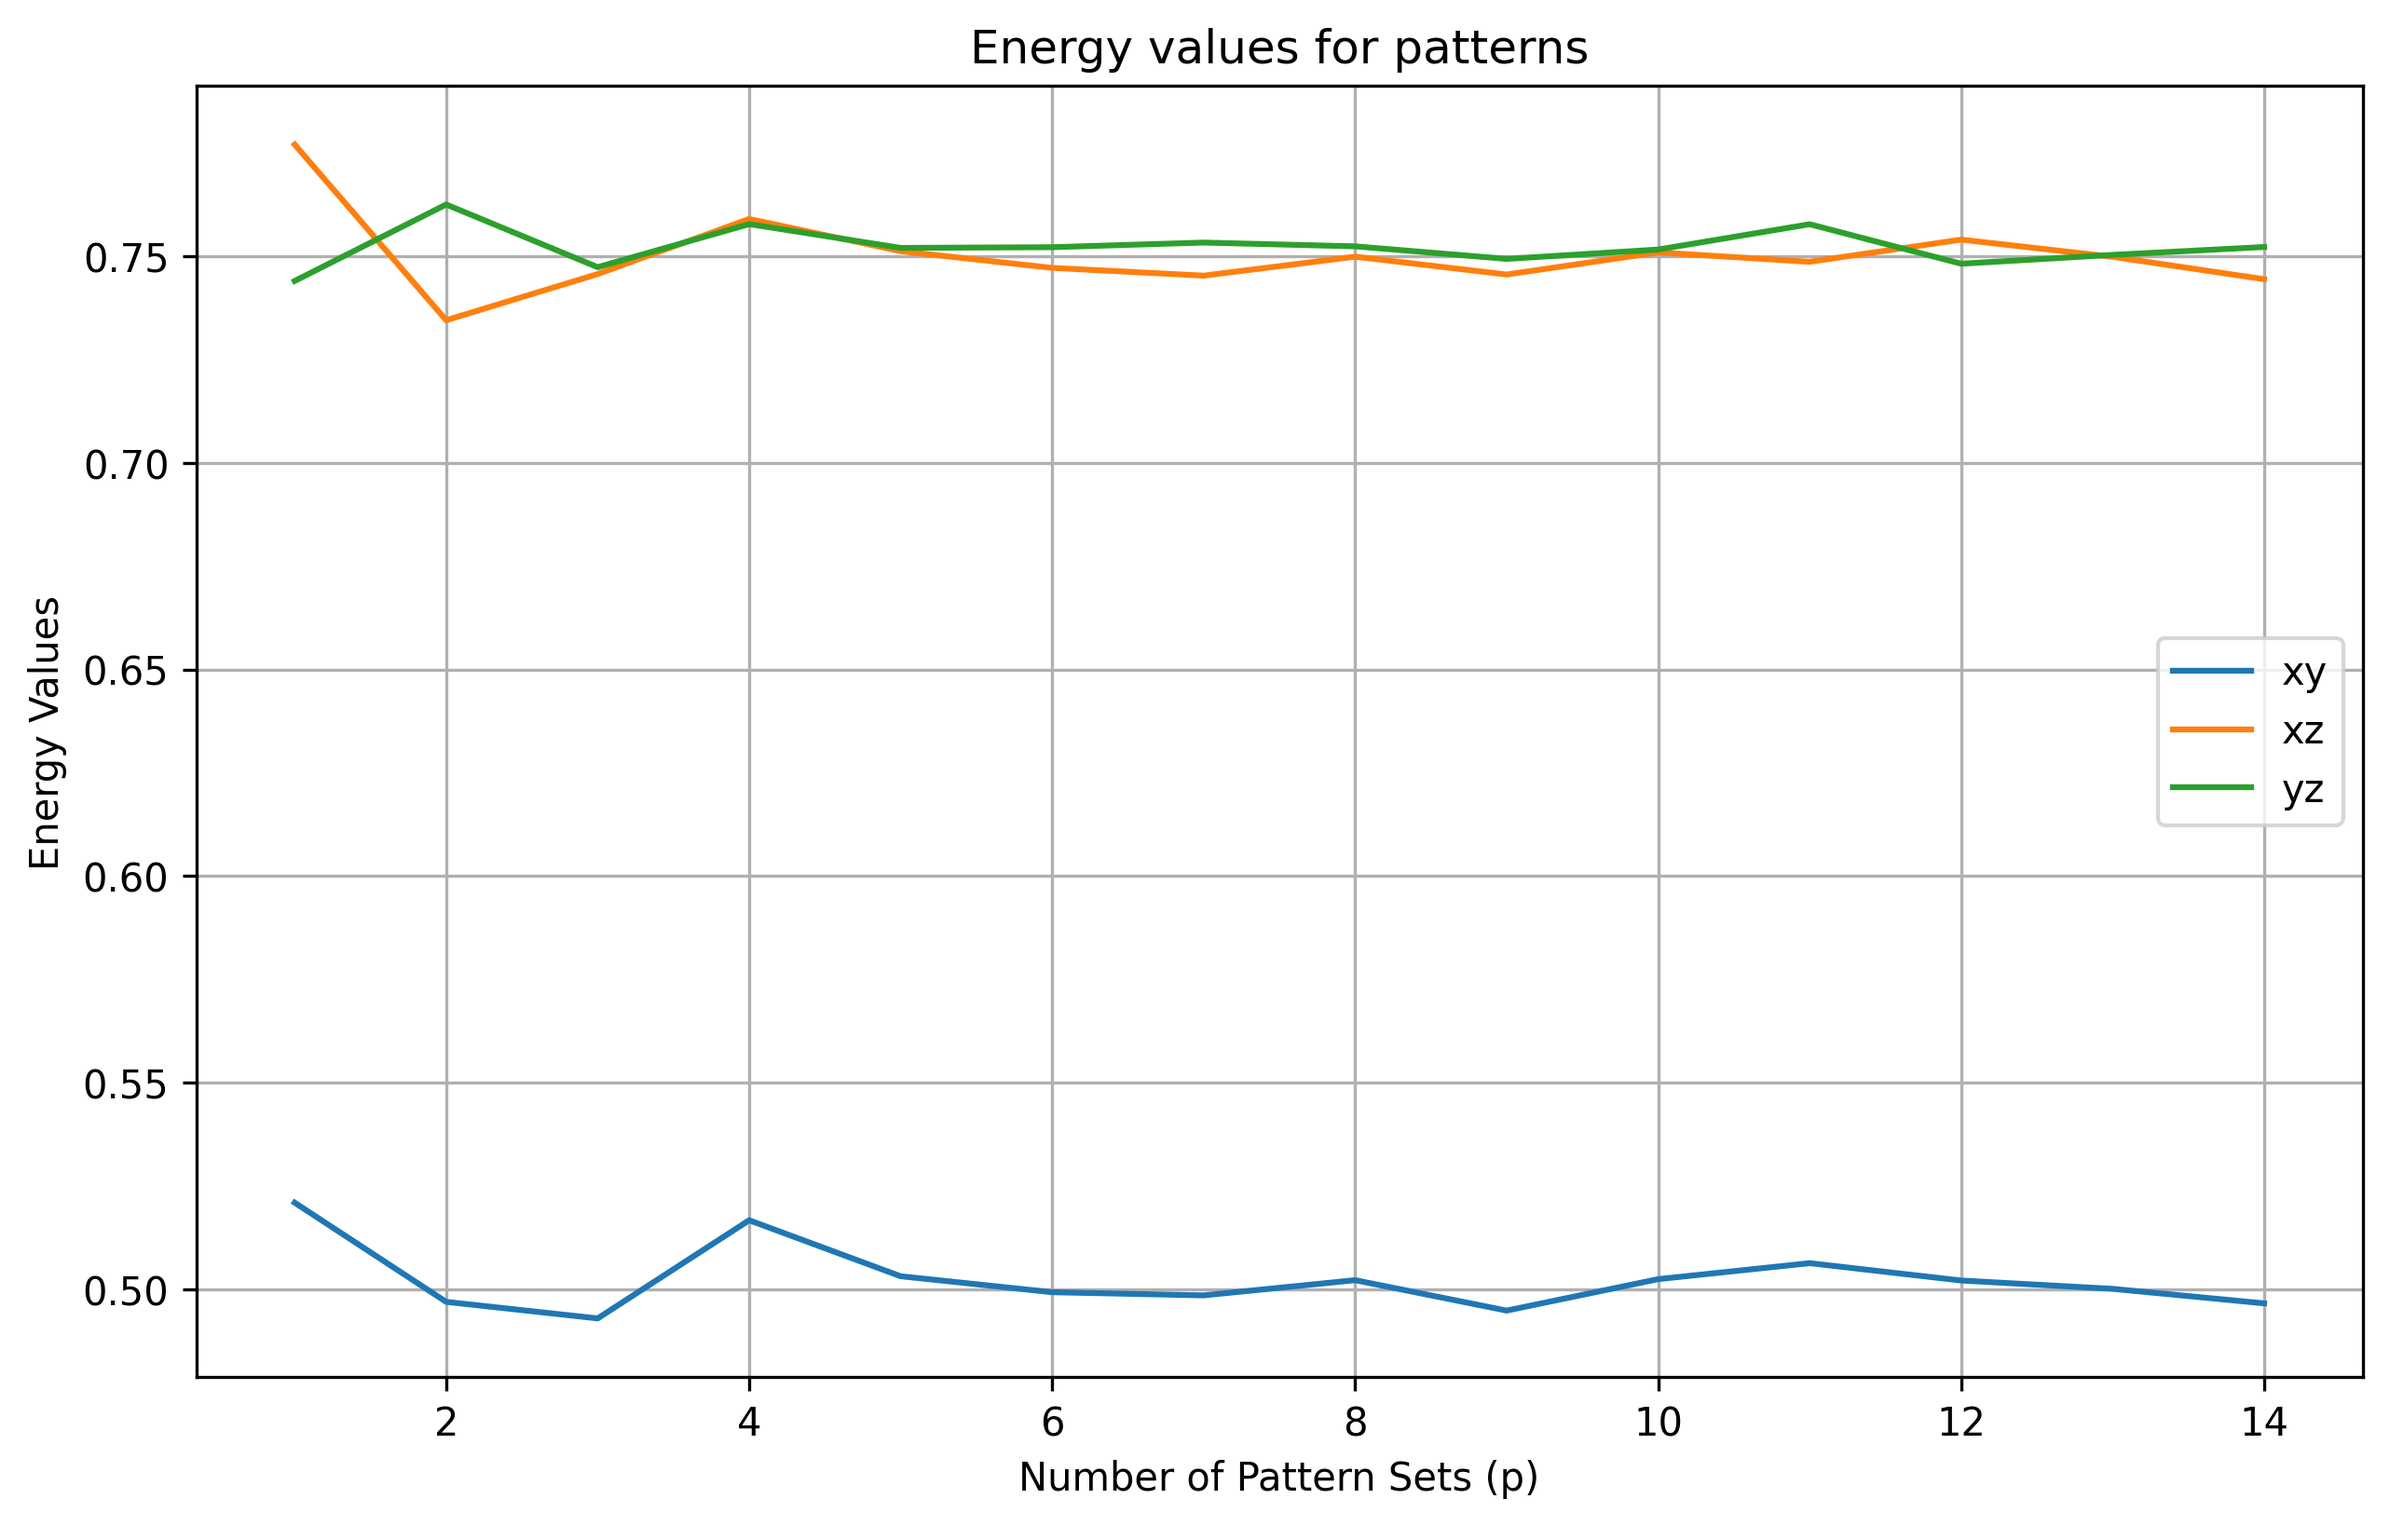
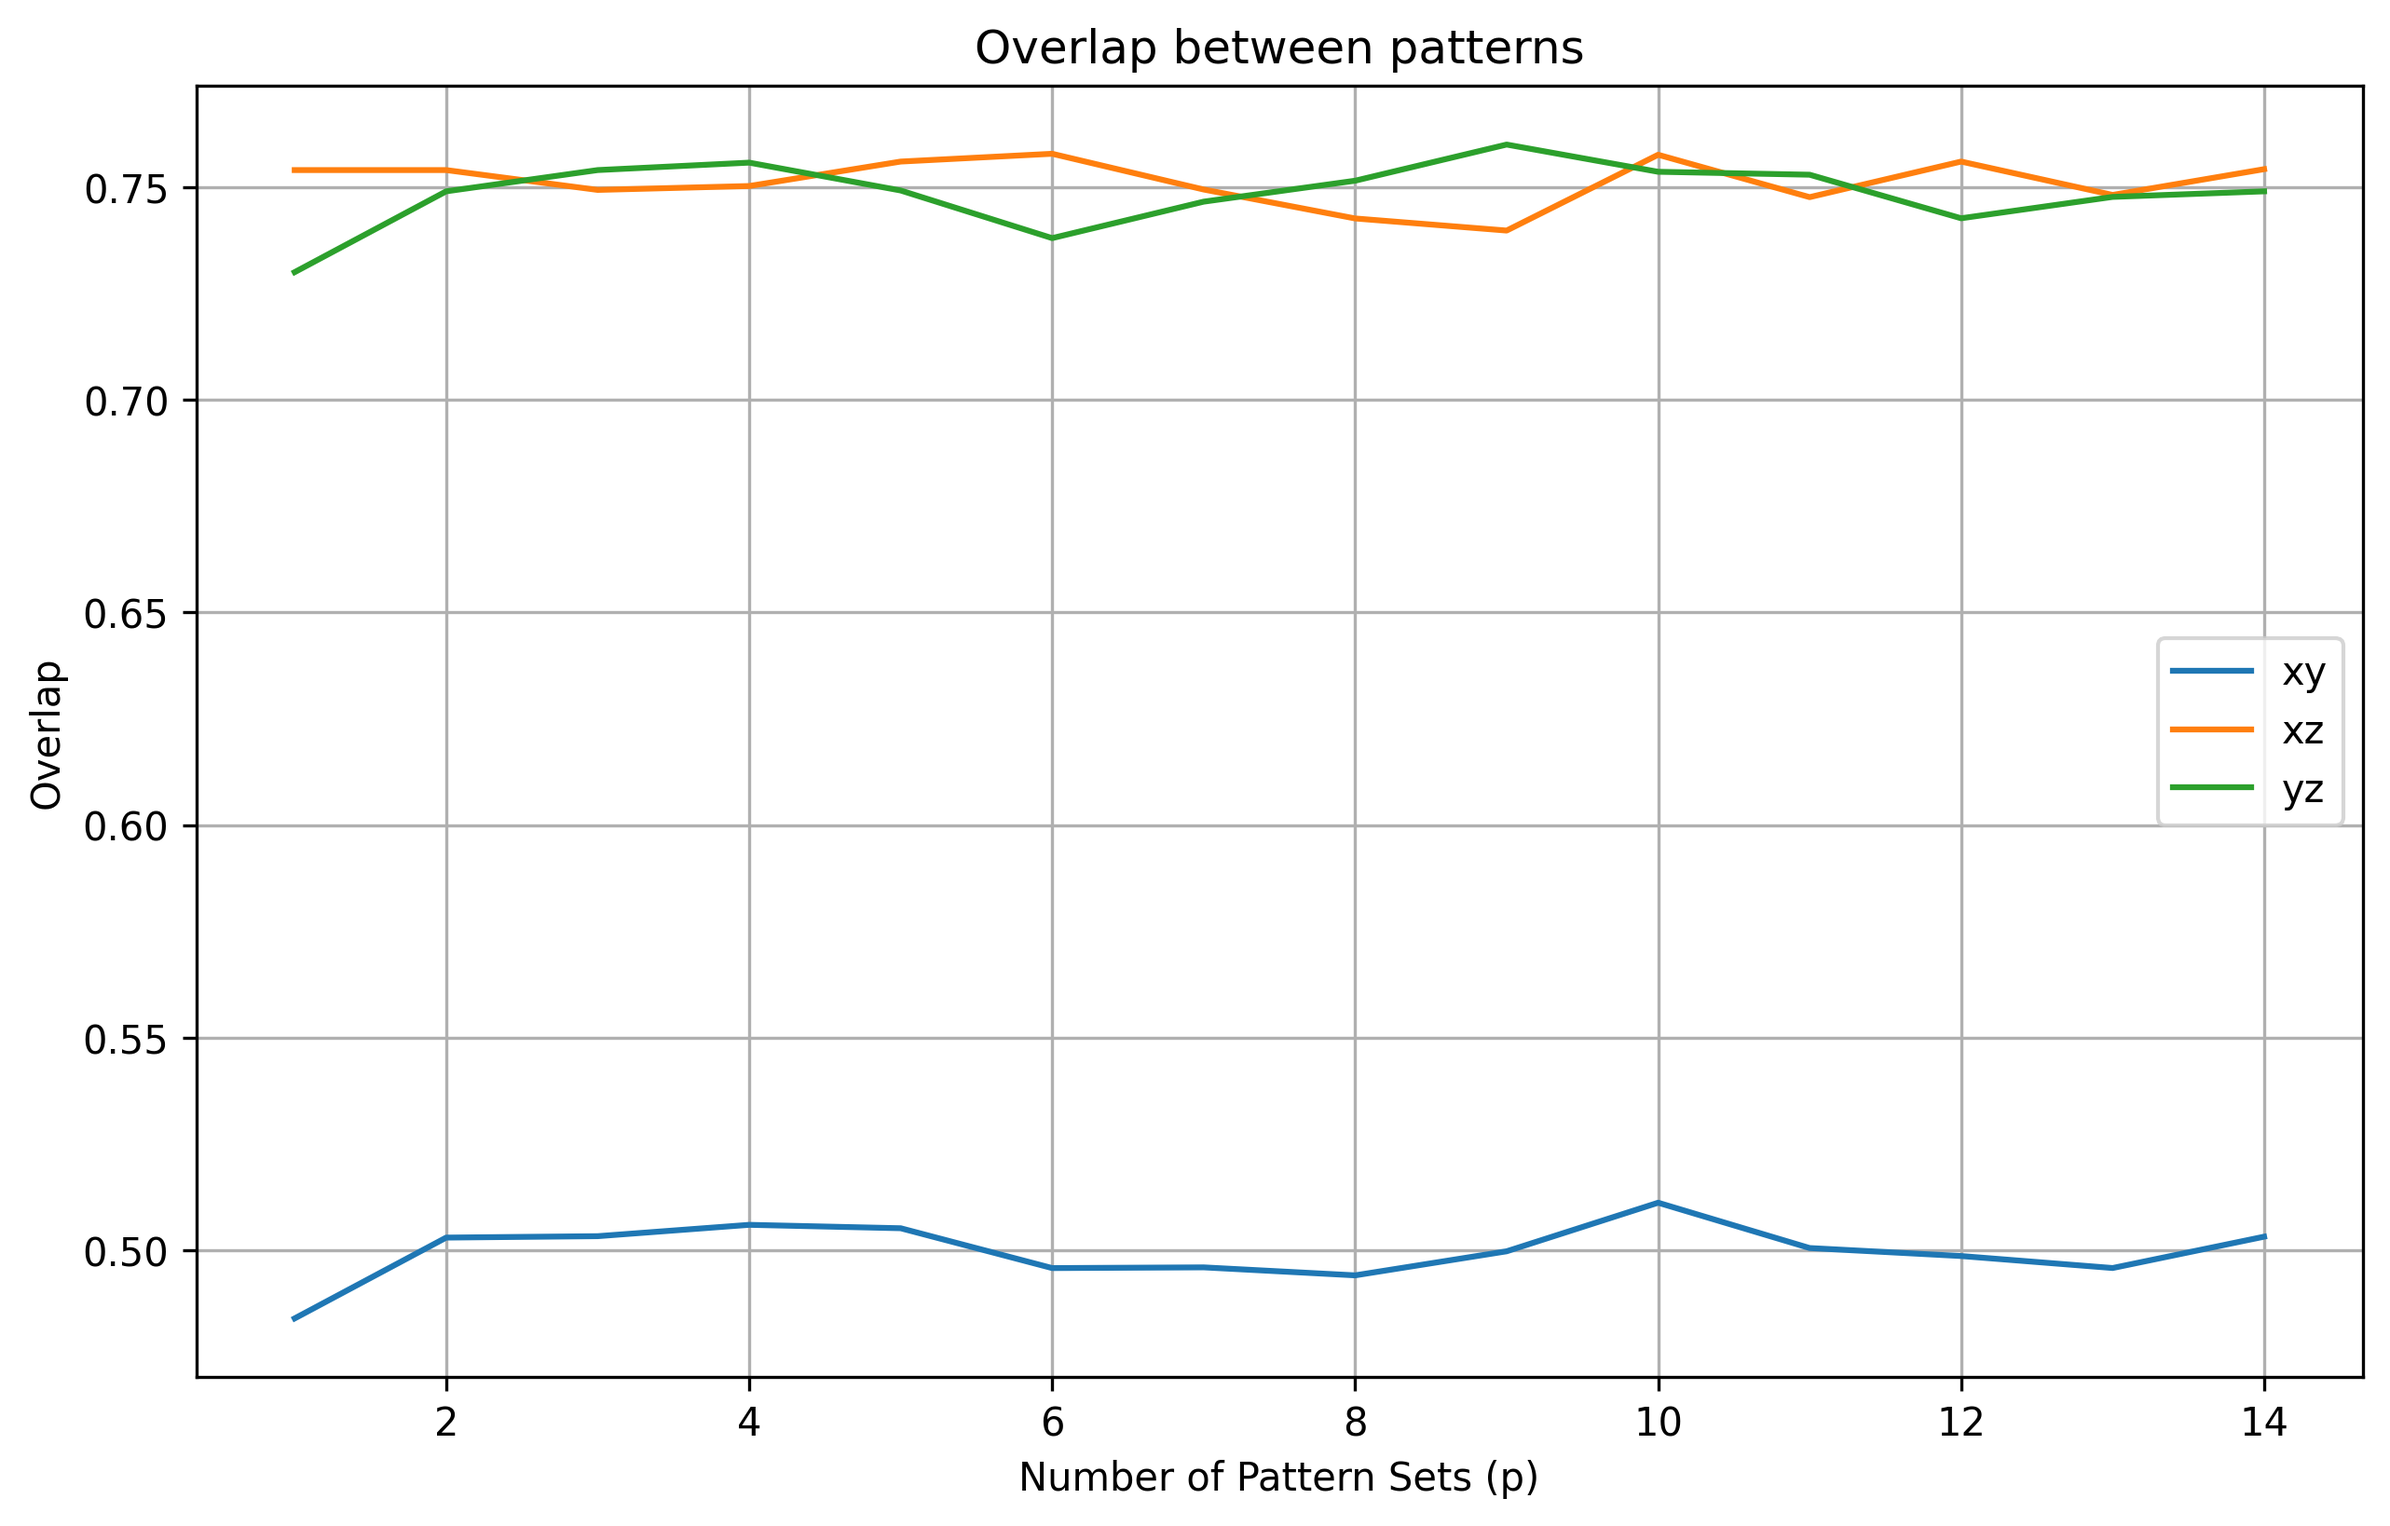
fixed overlap plot

diff --git a/src/training.py b/src/training.py
@@ -122,8 +122,8 @@ def plot_overlaps(overlap_dict, max_patterns, path="plots/overlaps.png"):
     for label, y_values in overlap_dict.items():
         plt.plot(range(1, max_patterns + 1), y_values, label=label)
     plt.xlabel("Number of Pattern Sets (p)")
-    plt.ylabel("Energy Values")
-    plt.title("Energy values for patterns")
+    plt.ylabel("Overlap")
+    plt.title("Overlap between patterns")
     plt.legend()
     plt.grid(True)
     plt.savefig(path, dpi=300, bbox_inches='tight')
